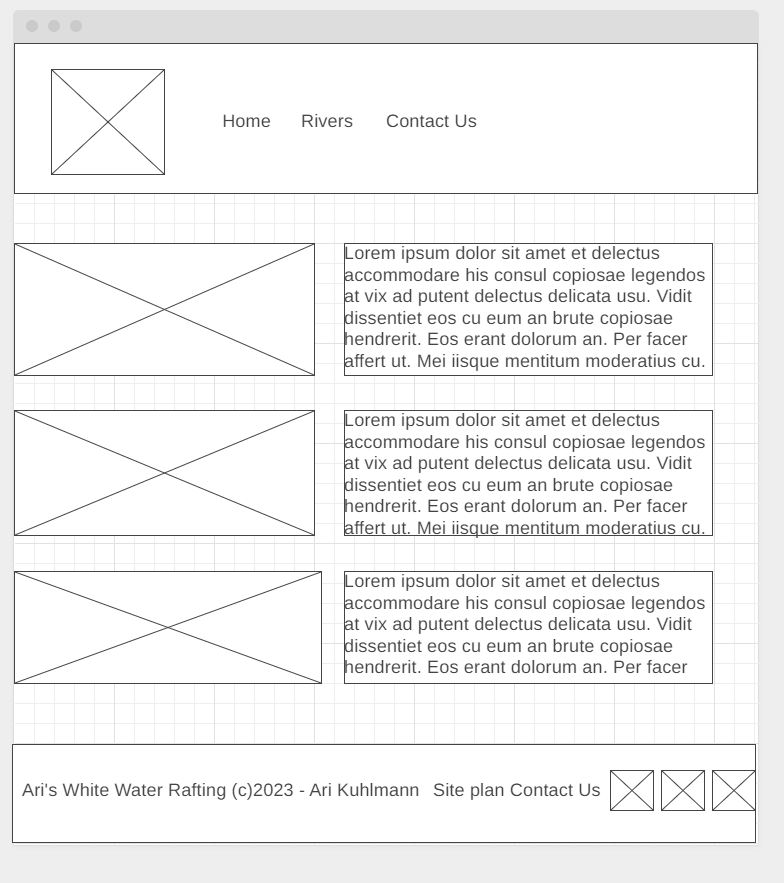
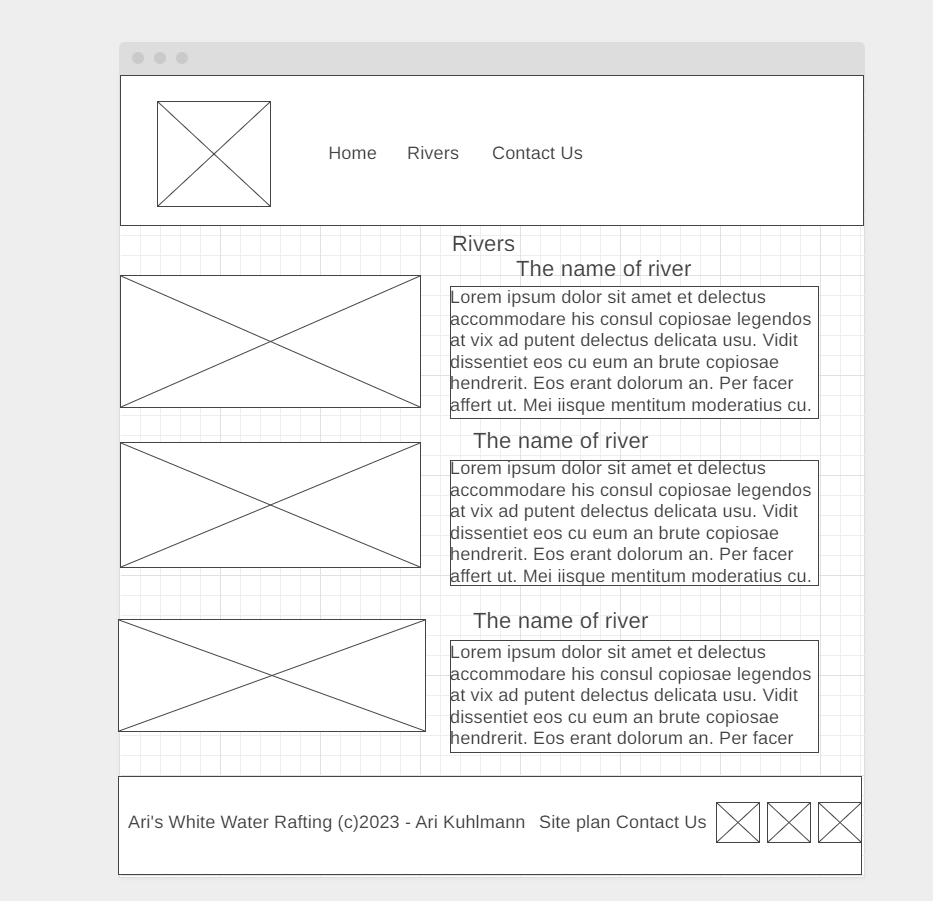
changed mountain pic, wire for rivers, ice chall

diff --git a/week9ice/index.html b/week9ice/index.html
@@ -1,0 +1,34 @@
+<!DOCTYPE html>
+<html lang="en">
+<head>
+    <meta charset="UTF-8">
+    <meta name="viewport" content="width=device-width, initial-scale=1.0">
+    <title>Week 9 Ice challenge</title>
+    <link rel="stylesheet" href="style/city.css">
+</head>
+<body>
+    <div class="card">
+    <img class="header-image" src="images/w09_ice_img.jpg" alt="City">
+    <main>
+        <p class="awesomearticle">
+            Bacon ipsum dolor amet turkey jerky kielbasa meatball biltong. Capicola pork chop cupim shank meatball beef jowl filet mignon venison picanha landjaeger buffalo tail andouille salami. Beef landjaeger tenderloin, turkey shankle jowl alcatra. Prosciutto turkey ham hock chicken salami shoulder frankfurter kielbasa pork. Beef ribs short loin prosciutto meatloaf. Drumstick beef ribs shank, tenderloin filet mignon brisket pork hamburger meatball. Pork tongue alcatra spare ribs swine capicola rump picanha jerky pastrami chicken hamburger kevin tri-tip buffalo.
+        </p>
+    </main>
+    <footer>
+        <div>
+            <h2>5<sup>m</sup></h2>
+            <h3>read</h3>
+        </div>
+        <div class="middle-box">
+            <h2> 2031</h2>
+            <h3>views</h3>
+        </div>
+        <div>
+            <h2>15</h2>
+            <h3>comments</h3>
+    </div>
+
+    </footer>
+    </div>
+</body>
+</html>

diff --git a/wwr/site-plan-rafting.html b/wwr/site-plan-rafting.html
@@ -86,7 +86,7 @@
     <!-- Think about how you want your navigation bar to look. In the site-plan.css file change the colors to your colors to get the look you desire. -->
     <nav>
       <a href="#">Home</a>
-      <a href="#">Page2</a>
+      <a href="#">Rivers</a>
       <a href="#">Contact Us</a>
     </nav>
     <hr />
@@ -111,7 +111,7 @@
 
     <img src="https://byui-wdd.github.io/wdd130/rafting_images/wireframe_home.png" alt="home page wireframe" />
 
-    <h3>[Page 2]</h3>
+    <h3>Rivers</h3>
     <img src="rivers-wireframe.png" alt="rivers wireframe for site plan">
     <!-- <img src="#" alt="page 2 wireframe"> -->
   </main>

diff --git a/week9ice/style/city.css b/week9ice/style/city.css
@@ -1,0 +1,37 @@
+body{
+    background-color: black;
+    
+}
+
+.card{
+    width: 250px;
+    margin: 0 auto;
+    background-color: white;
+}
+
+.header-image{
+    width: 100%;
+}
+
+.awesomearticle{
+    padding: 10%;
+    text-align: center;
+}
+
+footer{
+    background-color: #465b8b;
+    height: 100px;
+    display: grid;
+    grid-template-columns: 1fr 1fr 1fr;
+    /* align-content: center;
+    justify-content: center; */
+    margin: 0 auto;
+}
+
+div{
+    text-align: center; 
+}
+
+.middle-box{
+    border: solid 1px grey;
+}

diff --git a/wwr/index.html b/wwr/index.html
@@ -14,7 +14,7 @@
         </a>
         <nav>
             <a href="index.html">Home</a>
-            <a href="#">Page 2</a>
+            <a href="#">Rivers</a>
             <a href="site-plan-rafting.html"> Site Plan</a>
             <a href="contactus.html">Contact Us</a>
         </nav>
